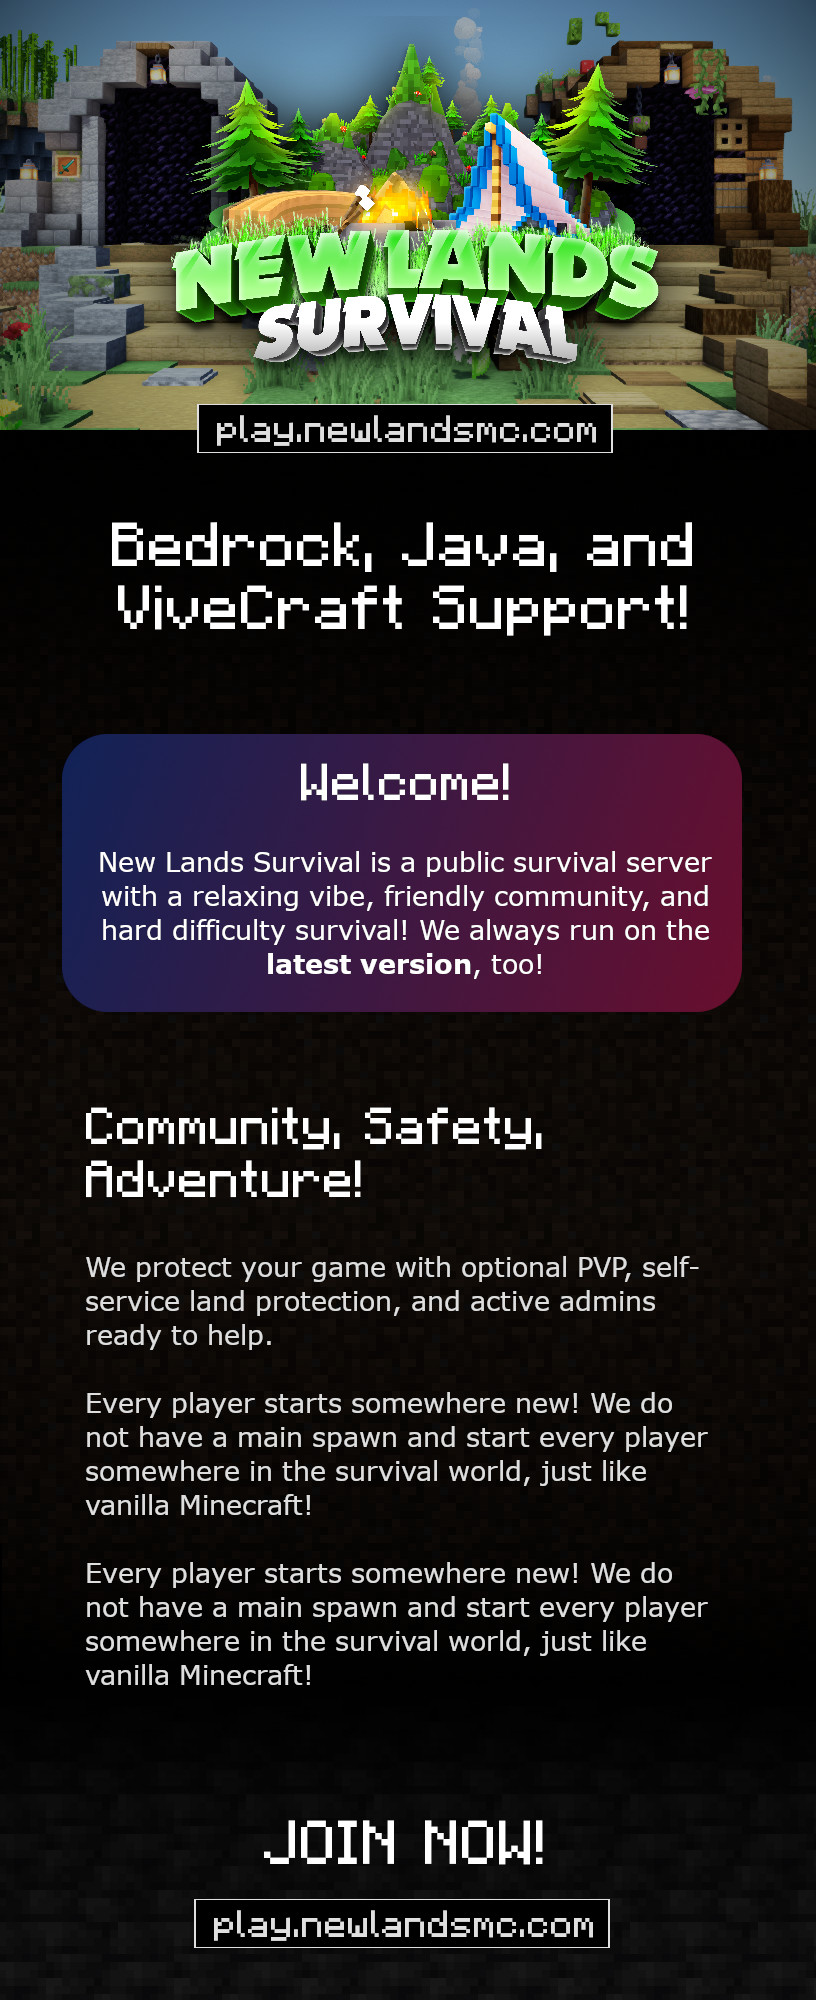
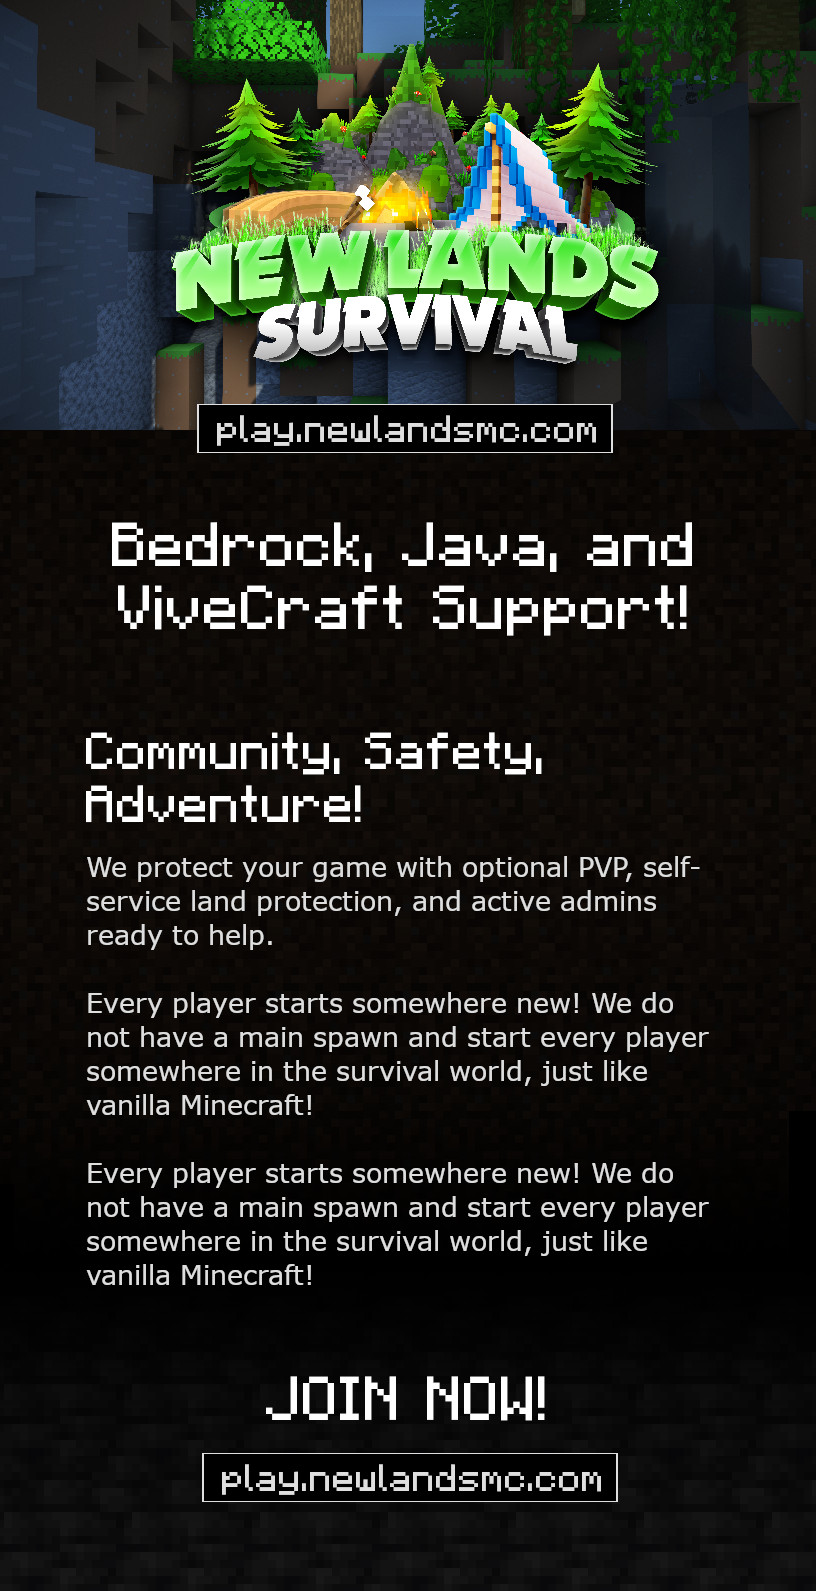
new backgrounds

diff --git a/content/assets/css/main.css b/content/assets/css/main.css
@@ -428,18 +428,6 @@ div.narrow {
   align-items: center;
 }
 
-#player-count {
-  align-self: center;
-  /* text-align: center; */
-  width: fit-content;
-  margin: 4px auto;
-  padding: 4px 30px;
-  border-radius: 10px;
-  background: linear-gradient(330deg, rgb(110 14 44), rgb(11 36 90));
-  color: white;
-  /* font-family: mctext; */
-}
-
 button {
   padding: 10px;
   margin: 16px;
@@ -664,10 +652,6 @@ button:hover {
   margin: 30px;
 }
 
-#landing-body #mobile-nav > a > img {
-  display: none;
-}
-
 #mobile-nav div input {
   display: block;
   width: 33px;
@@ -789,15 +773,18 @@ button:hover {
 }
 
 @media (max-width: 700px) {
+  .sub-title {
+    background-size: 300%;
+  }
   .content {
     width: 90%;
     margin: 0 !important;
   }
-  .title {
-    top: -35px;
-  }
   #main-nav, #scrollbutton {
     display: none;
+  }
+  .title {
+    top: -15px;
   }
   #mobile-nav {
     display: block;
@@ -900,7 +887,7 @@ button:hover {
 }
 
 @media (max-height: 700px) {
-  .landing-title-text h1, .landing-title-text p {
+  .hide-mobile-2 {
     display: none !important;
   }
   .title {

diff --git a/content/assets/templates/footer.html b/content/assets/templates/footer.html
@@ -1,6 +1,6 @@
 <footer>
   <div id="footer-divider"></div>
-  <p style="width: 100%; text-align: center;">Supported versions as of February 25th 2023: Java 1.18 to 1.19.3, Bedrock 1.19.60, Vivecraft 1.19.X</p>
+  <p style="width: 100%; text-align: center;">Supported versions as of March 16th 2023: Java 1.18 to 1.19.4, Bedrock 1.19.70, Vivecraft 1.19.X</p>
   <ul>
     <li><a href="/rules/">Rules</a></li>
     <li><a href="/join/">How to Join</a></li>

diff --git a/content/rules/index.php b/content/rules/index.php
@@ -18,7 +18,7 @@
   <body>
     <?php echo file_get_contents($_SERVER['DOCUMENT_ROOT'] .'/assets/templates/header.html'); ?>
     <main>
-      <div class="sub-title">
+      <div class="sub-title" style="background-image: linear-gradient(rgba(0, 0, 0, 0.1), rgba(0, 0, 0, 0.1)), url(/assets/images/rules-title.webp); background-position: 50% 40%;">
         <div>
           <h1>Server Rules</h1>
           <h2>Be: Careful, Kind, and Fair!</h2>
@@ -27,7 +27,7 @@
       <div class="content">
         <div class="shadow"></div>
         <section style="padding-top: 30px;">
-          <h3>Be Careful</h3>
+          <h3>Be Careful!</h3>
           <ul>
             <li class="rules">Trusting players is at-your-own-risk! (Set up your land claim roles and areas carefully!)</li>
             <li class="rules">Trades and job agreements are at-your-own-risk! (Use the /trade GUI to avoid scams.)</li>
@@ -36,29 +36,28 @@
           </ul>
         </section>
         <section>
-          <h3>Be Kind</h3>
+          <h3>Be Kind!</h3>
           <ul>
-            <li class="rules">Player traps are prohibited. ("Player traps" = something designed to kill or trap a player that isn't an obvious threat until after it has triggered.)</li>
-            <li class="rules">Harassment, threats, verbal abuse, hateful speech, and offensive generalizations are prohibited.</li>
-            <li class="rules">No bullying. (Do not spawn camp, repeatedly kill the same player, or target new players.)</li>
-            <li class="rules">No trolling or antagonizing. (Do not participate in actions intended only to upset others.)</li>
-            <li class="rules">Keep other's feelings in mind when using chat. (Staff have the right to shut down a conversation if needed.)</li>
-            <li class="rules">Do not spam.</li>
+            <li class="rules">Player traps are prohibited! ("Player traps" = something designed to kill or trap a player that isn't an obvious threat until after it has triggered.)</li>
+            <li class="rules">Harassment, threats, verbal abuse, hateful speech, and offensive generalizations are prohibited!</li>
+            <li class="rules">No bullying! (Do not spawn camp, repeatedly kill the same player, or target new players.)</li>
+            <li class="rules">No trolling or antagonizing! (Do not participate in actions intended only to upset others.)</li>
+            <li class="rules">Keep other's feelings in mind when using chat! (Staff have the right to shut down a conversation if needed.)</li>
+            <li class="rules">Do not spam!</li>
           </ul>
         </section>
         <section>
-          <h3>Be Fair</h3>
+          <h3>Be Fair!</h3>
           <ul>
-            <li class="rules">Any hack or mod that gives you an unfair advantage in the game is not allowed.
+            <li class="rules">Any hack or mod that gives you an unfair advantage in the game is not allowed!
               <ul>
                 <li class="rules"><strong>Banned mods:</strong> minimaps</li>
                 <li class="rules"><strong>Approved mods:</strong> performance enhancers (like Optifine), shaders, gameplay recording, inventory management, status HUDs</li>
               </ul>
             </li>
-            <li class="rules">Do not exploit bugs in our server's features. Vanilla exploit are allowed, unless they involve duplicating items.</li>
-            <li class="rules">If you share your account, you are responsible for anything that happens on your account.</li>
-            <li class="rules">Do not purposely sit AFK on the server. (no AFK machines, farms, etc.)</li>
-            <li class="rules">Alt accounts are prohibited.</li>
+            <li class="rules">Do not exploit bugs in our server's features. Vanilla exploit are allowed, unless they involve duplicating items!</li>
+            <li class="rules">If you share your account, you are responsible for anything that happens on your account!</li>
+            <li class="rules">Alt accounts are prohibited!</li>
           </ul>
         </section>
         <section>

diff --git a/content/index.php b/content/index.php
@@ -1,7 +1,7 @@
 <!doctype html>
 <html lang="en">
   <head>
-    <title>New Lands Survival | 1.19.3 Minecraft Survival Server</title>
+    <title>New Lands Survival | 1.19.4 Minecraft Survival Server</title>
     <meta name="description" content="New Lands Survival is a hard difficulty survival Minecraft server with a relaxing vibe and friendly community! We always run on the latest version! Grief protection, optional PVP, and more!" />
     <meta property="og:description" content="New Lands Survival is a hard difficulty survival Minecraft server with a relaxing vibe and friendly community! We always run on the latest version! Grief protection, optional PVP, and more!" />
     <meta name="twitter:description" content="New Lands Survival is a hard difficulty survival Minecraft server with a relaxing vibe and friendly community! We always run on the latest version! Grief protection, optional PVP, and more!" />
@@ -64,12 +64,12 @@
   <body id="landing-body">
     <?php echo file_get_contents($_SERVER['DOCUMENT_ROOT'] .'/assets/templates/header.html'); ?>
     <main>
-      <div class="title" style="background: linear-gradient( rgba(0, 0, 0, 0) 35%, rgba(0, 0, 0, 1) ), url(/assets/images/landing-title.webp); background-size: cover; background-position: 85%;">
+      <div class="title" style="background: linear-gradient( rgba(0, 0, 0, 0) 45%, rgba(0, 0, 0, 1) ), url(/assets/images/landing-title.webp); background-size: cover; background-position: 40%;">
       </div>
       <div class="title" style="position: absolute; z-index: 3;">
         <div class="landing-title-text" style="text-align: center;">
-          <img class="landing-logo" src="/assets/images/logo.webp" alt="New Lands Survival Logo" />
-          <h1 style="margin: 30px;">1.19.3 Survival Community!</h1>
+          <img class="landing-logo hide-mobile-2" src="/assets/images/logo.webp" alt="New Lands Survival Logo" />
+          <h1 style="margin: 30px;">1.19.4 Survival Community!</h1>
           <p class="ip">play.newlandsmc.com</p>
           <div style="width:100%">
             <button type="button" class="copyip-button" id="cb1" onclick="copyToClipboard('cb1','play.newlandsmc.com','https://newlandsmc.com/join')">Copy IP!</button>

diff --git a/content/redirect/index.php b/content/redirect/index.php
@@ -6,6 +6,17 @@
     <?php echo file_get_contents($_SERVER['DOCUMENT_ROOT'] .'/assets/templates/seo.html'); ?>
     <script async type="module" src="/assets/javascript/jquery-3.6.3.min.js"></script>
     <script defer async type="module" src="/assets/javascript/nav.js"></script>
+    <style>
+      h3 {
+        font-weight: 100;
+        text-align: center;
+      }
+      @media (max-width: 700px) {
+        h3 {
+          font-size: 1em;
+        }
+      }
+    </style>
   </head>
   <body>
     <?php echo file_get_contents($_SERVER['DOCUMENT_ROOT'] .'/assets/templates/header.html'); ?>
@@ -13,7 +24,7 @@
       <div class="title" style="background-image: url(/assets/images/404-title.webp);">
         <video id="landing-title-video" autoplay loop muted hidden-src="/assets/videos/404-video.mp4" poster="/assets/images/404-title.webp"></video>
         <div>
-          <h2>We Moved!</h2>
+          <h1>We Moved!</h1>
           <h3>SemiVanilla MC is now <strong>New Lands Survival</strong>!</h3>
           <h3>Please bookmark our new website:</h3>
           <h3><a href="/">newlandsmc.com</a></h3>

diff --git a/content/join/index.php b/content/join/index.php
@@ -61,14 +61,24 @@
           width: 80px;
         }
       }
+      #player-count {
+        align-self: center;
+        width: fit-content;
+        margin: 4px auto;
+        padding: 4px 30px;
+        border-radius: 10px;
+        background: linear-gradient(330deg, rgb(110 14 44), rgb(11 36 90));
+        font-family: mctext;
+        color: var(--focus);
+      }
     </style>
   </head>
   <body>
     <?php echo file_get_contents($_SERVER['DOCUMENT_ROOT'] .'/assets/templates/header.html'); ?>
     <main>
-      <div class="sub-title" style="background: linear-gradient( rgba(0, 0, 0, 0.1), rgba(0, 0, 0, 0.1) ), url(/assets/images/join-title.webp); background-size: cover; background-position: 85%;">
+      <div class="sub-title" style="background-image: linear-gradient( rgba(0, 0, 0, 0.1), rgba(0, 0, 0, 0.1) ), url(/assets/images/join-title.webp); background-position: 40%;">
         <div>
-          <h1>How to Join</h1>
+          <h1>How to Join!</h1>
           <h2>We Support Java and Bedrock!</h2>
           <p id="player-count">Players Online:</p>
         </div>

diff --git a/content/404.php b/content/404.php
@@ -6,6 +6,17 @@
     <?php echo file_get_contents($_SERVER['DOCUMENT_ROOT'] .'/assets/templates/seo.html'); ?>
     <script async type="module" src="/assets/javascript/jquery-3.6.3.min.js"></script>
     <script defer async type="module" src="/assets/javascript/nav.js"></script>
+    <style>
+      h3 {
+        font-weight: 100;
+        text-align: center;
+      }
+      @media (max-width: 700px) {
+        h3 {
+          font-size: 1em;
+        }
+      }
+    </style>
   </head>
   <body>
     <?php echo file_get_contents($_SERVER['DOCUMENT_ROOT'] .'/assets/templates/header.html'); ?>
@@ -13,7 +24,7 @@
       <div class="title" style="background-image: url(/assets/images/404-title.webp);">
         <video id="landing-title-video" autoplay loop muted hidden-src="/assets/videos/404-video.mp4" poster="/assets/images/404-title.webp"></video>
         <div>
-          <h2>404</h2>
+          <h1>404</h1>
           <h3>Page not found.</h3>
         </div>
       </div>

diff --git a/content/vote/index.php b/content/vote/index.php
@@ -71,7 +71,7 @@
   <body>
     <?php echo file_get_contents($_SERVER['DOCUMENT_ROOT'] .'/assets/templates/header.html'); ?>
     <main>
-      <div class="sub-title" style="background-image: url(/assets/images/vote-title.webp); background-position: center;">
+      <div class="sub-title" style="background-image: linear-gradient(rgba(0, 0, 0, 0.1), rgba(0, 0, 0, 0.1)), url(/assets/images/vote-title.webp); background-position: 50% 45%;">
         <div>
           <h1>Vote Daily!</h1>
           <h2>Earn Rewards Every Day!</h2>
@@ -122,7 +122,7 @@
         </div>
         <div class="votesection" id="votesection2">
           <section class="center">
-            <h3>Free Crates</h3>
+            <h3>Rewards!</h3>
             <p>1 Vote Crate for every vote!</p>
             <p>FREE Premium Crate(s) for voting 7 days in a row!</p>
             <p><strong>NEW!</strong> Claim a FREE premium rank and earn DOUBLE Premium Crates from voting!</p>

diff --git a/content/features/recipes/index.php b/content/features/recipes/index.php
@@ -8,13 +8,14 @@
     <style>
       section img {
         border-radius: 5px;
+        filter: brightness(0.9);
       }
     </style>
   </head>
   <body>
     <?php echo file_get_contents($_SERVER['DOCUMENT_ROOT'] .'/assets/templates/header.html'); ?>
     <main>
-      <div class="sub-title" style="background-image: url(/assets/images/features-recipes-title.webp); background-position: center;">
+      <div class="sub-title" style="background-image: linear-gradient(rgba(0, 0, 0, 0.1), rgba(0, 0, 0, 0.1)), url(/assets/images/recipes-title.webp); background-position: center;">
         <div>
           <h1>Custom Recipes</h1>
           <h2>Found on New Lands Survival MC</h2>

diff --git a/content/features/enchantments/index.php b/content/features/enchantments/index.php
@@ -9,7 +9,7 @@
   <body>
     <?php echo file_get_contents($_SERVER['DOCUMENT_ROOT'] .'/assets/templates/header.html'); ?>
     <main>
-      <div class="sub-title" style="background-image: url(/assets/images/enchantments-title.webp); background-position: center;">
+      <div class="sub-title" style="background-image: linear-gradient(rgba(0, 0, 0, 0.1), rgba(0, 0, 0, 0.1)), url(/assets/images/enchantments-title.webp); background-position: 50% 45%;">
         <div>
           <h1>Custom Enchantments</h1>
           <h2>By AdvancedEnchantments</h2>

diff --git a/content/features/enchantments/all/index.php b/content/features/enchantments/all/index.php
@@ -31,7 +31,7 @@
   <body>
     <?php echo file_get_contents($_SERVER['DOCUMENT_ROOT'] .'/assets/templates/header.html'); ?>
     <main>
-      <div class="sub-title" style="background-image: url(/assets/images/enchantments-all-title.webp); background-position: center;">
+      <div class="sub-title" style="background-image: linear-gradient(rgba(0, 0, 0, 0.1), rgba(0, 0, 0, 0.1)), url(/assets/images/enchantments-all-title.webp); background-position: center;">
         <div>
           <h1>Custom Enchantments</h1>
           <h2>List of All</h2>

diff --git a/content/features/claiming/index.php b/content/features/claiming/index.php
@@ -9,7 +9,7 @@
   <body>
     <?php echo file_get_contents($_SERVER['DOCUMENT_ROOT'] .'/assets/templates/header.html'); ?>
     <main>
-      <div class="sub-title" style="background-image: url(/assets/images/claiming-title.webp); background-position: center;">
+      <div class="sub-title" style="background-image: linear-gradient(rgba(0, 0, 0, 0.1), rgba(0, 0, 0, 0.1)), url(/assets/images/claiming-title.webp); background-position: 50% 45%;">
         <div>
           <h1>Land Claiming</h1>
           <h2>By GriefPrevention</h2>
